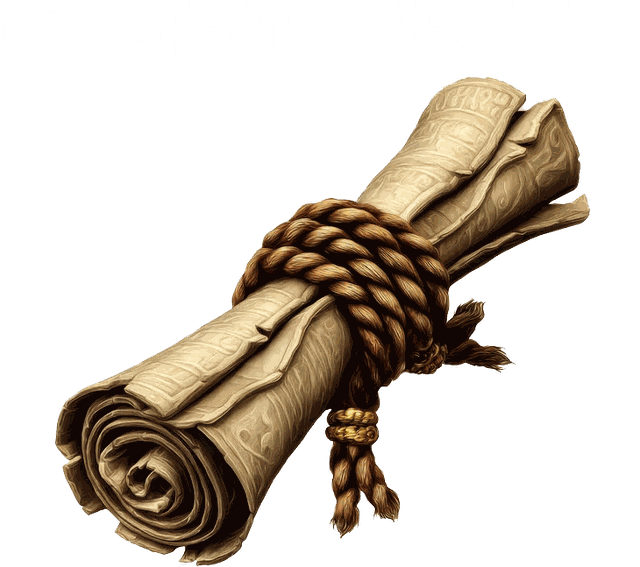
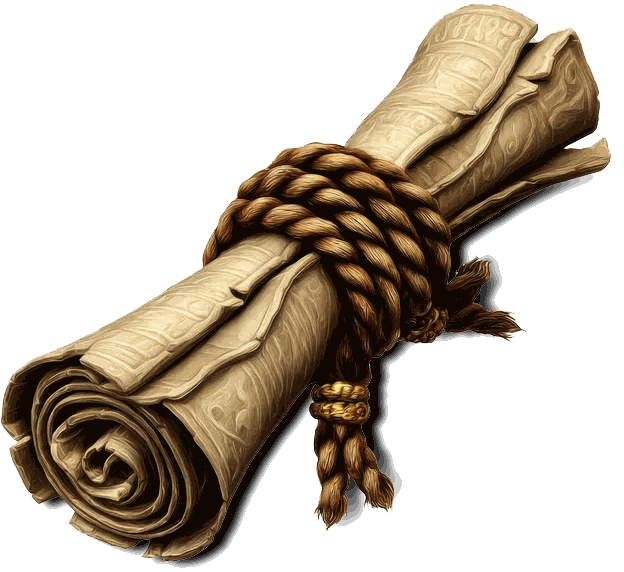
Swap scroll art, make standing Kenji overlap the dialogue box
- Replace public/scroll.png with the newly supplied scroll artwork
- Pull standing Kenji down past bottom-full so his feet sink ~14-20px into the box's top edge instead of just touching it — reads as standing on the box, not floating just above it

diff --git a/components/KenjiGuide.jsx b/components/KenjiGuide.jsx
@@ -99,12 +99,13 @@ export default function KenjiGuide() {
       {open && (
         <div className="relative">
           {/* His full form, standing — appears only while the dialogue
-              is open, perched on top of the box over on the right side,
-              feet flush with the box's own top edge (bottom-full) so
-              there's no gap between him and the paper beneath him. */}
+              is open, perched on top of the box over on the right side.
+              Pulled down past bottom-full on purpose so his feet sink a
+              little into the box's top edge instead of just touching
+              it — reads as standing on the box, not floating above it. */}
           <div
             aria-hidden="true"
-            className="absolute bottom-full right-6 z-10 h-36 w-16 sm:right-9 sm:h-52 sm:w-24"
+            className="absolute bottom-[calc(100%-14px)] right-6 z-10 h-36 w-16 sm:bottom-[calc(100%-20px)] sm:right-9 sm:h-52 sm:w-24"
           >
             {/* eslint-disable-next-line @next/next/no-img-element */}
             <img
